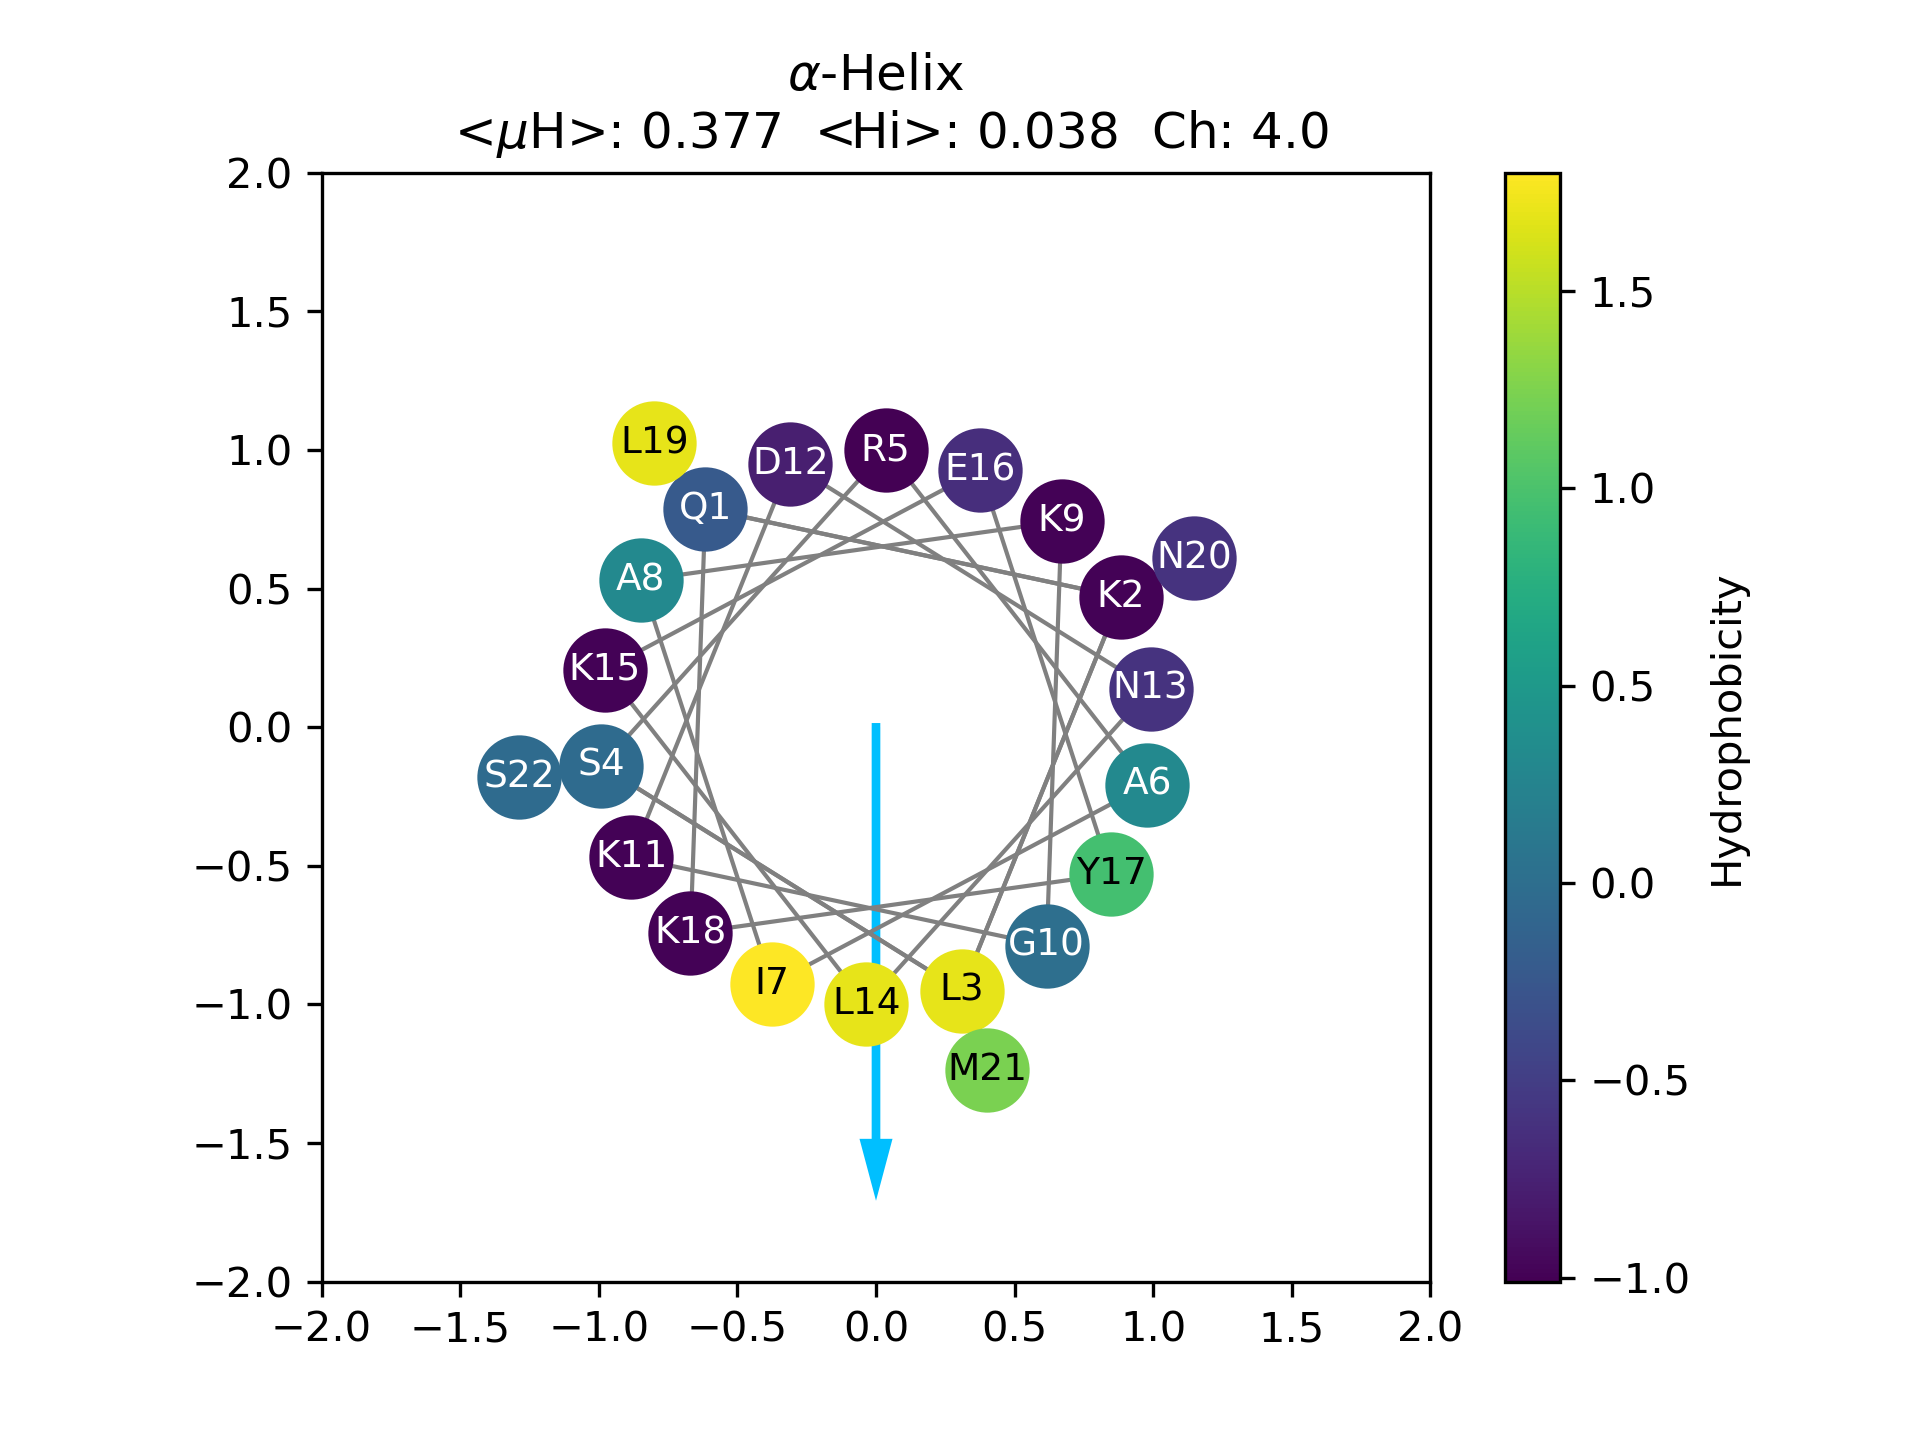
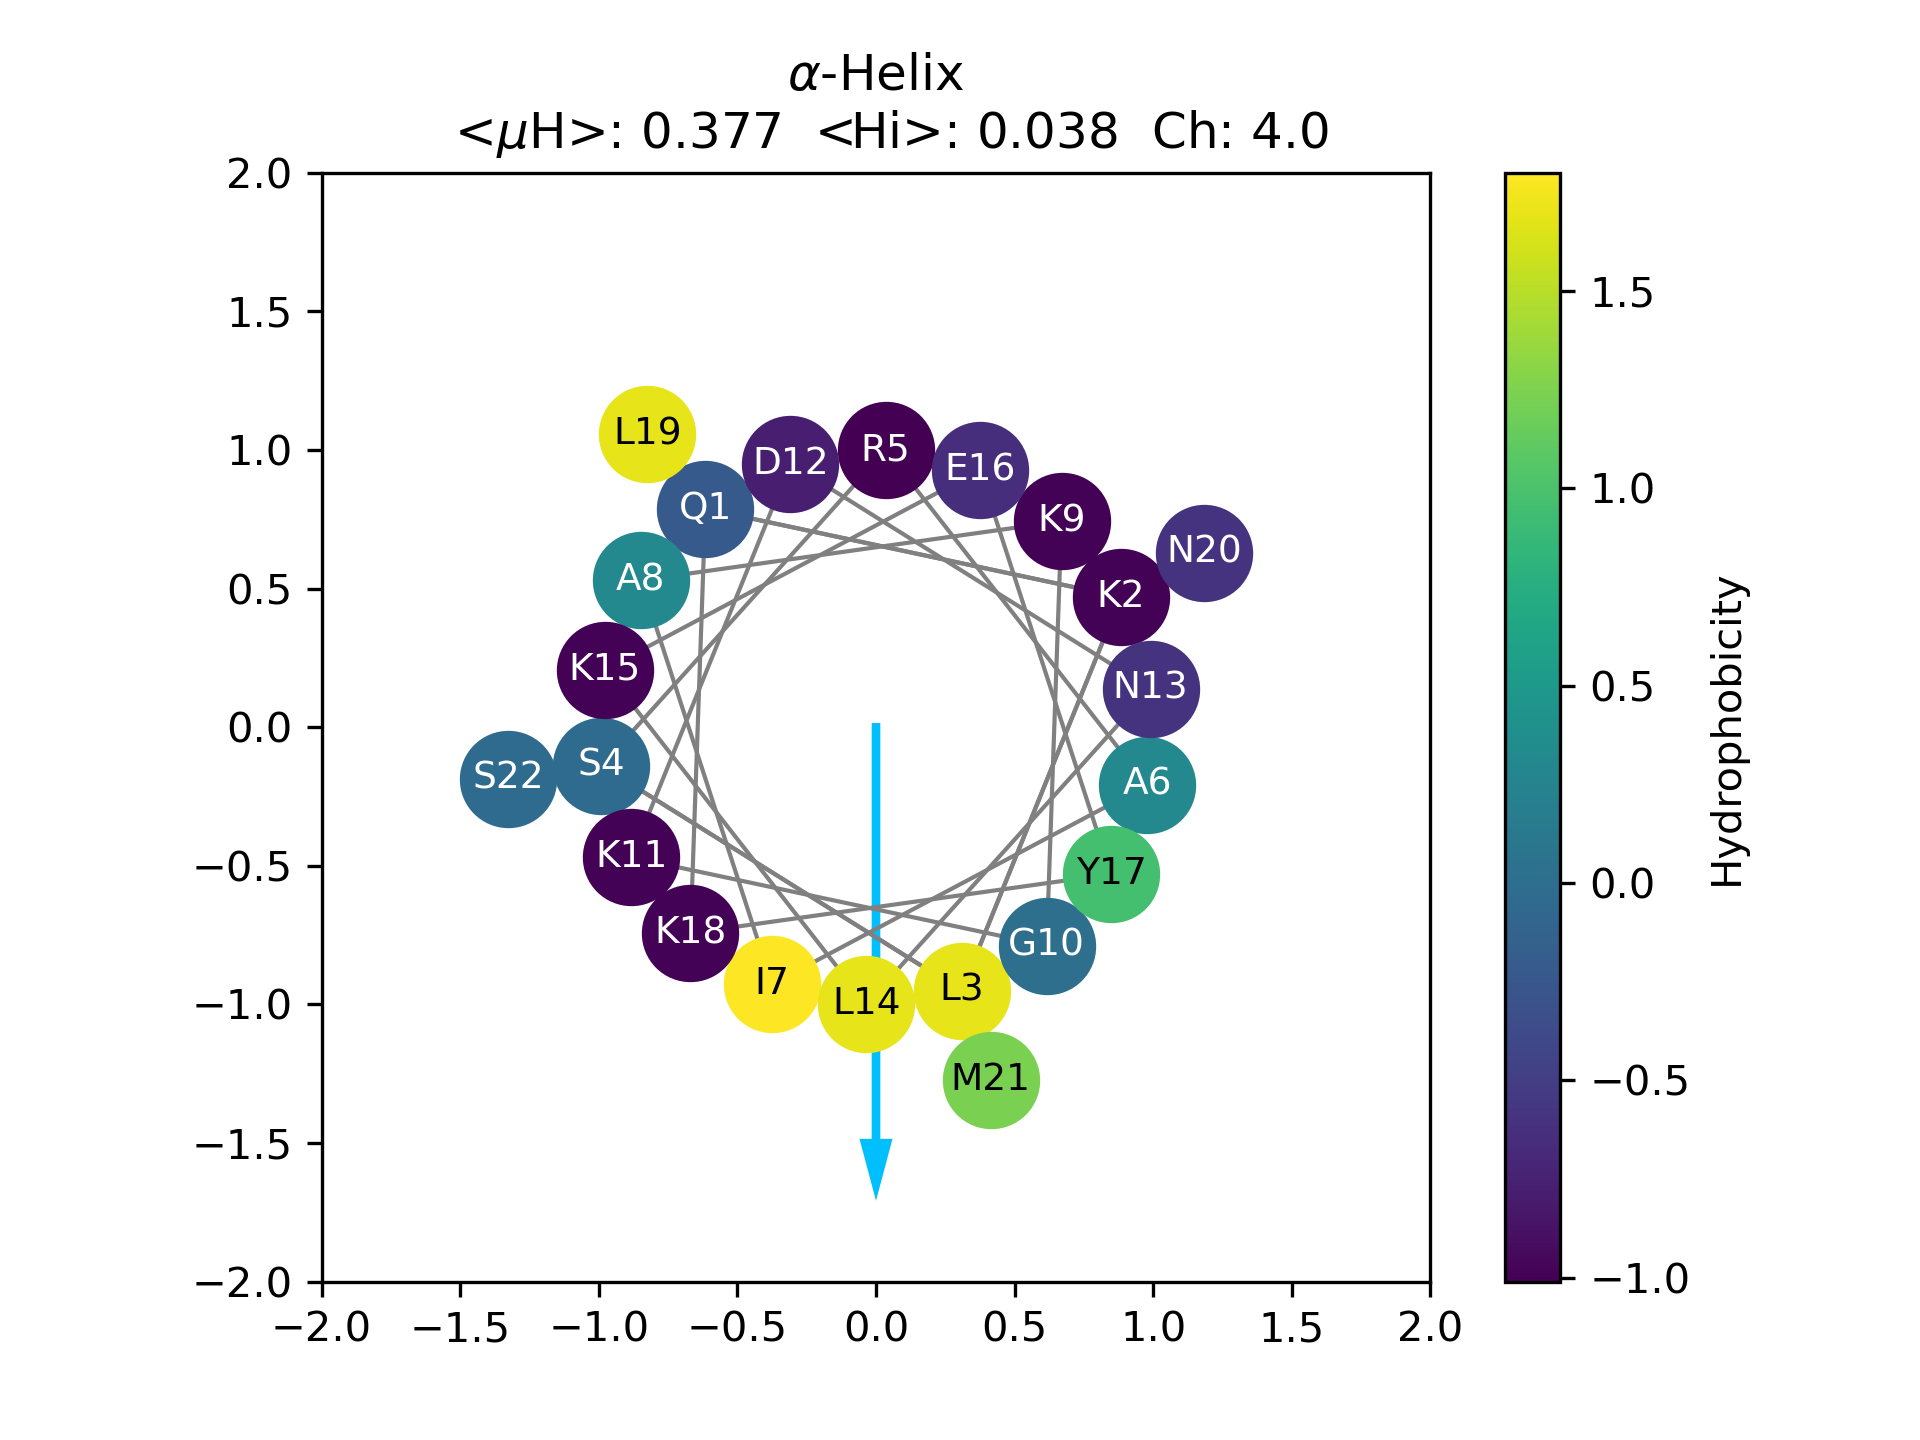
bug in sequence_logo solved. README modified.

diff --git a/sequence_logo.py b/sequence_logo.py
@@ -6,6 +6,7 @@ from an evomd csv report.
 
 from collections import Counter
 import argparse
+import os
 import matplotlib.pyplot as plt
 from matplotlib.textpath import TextPath
 from matplotlib.textpath import TextPath
@@ -87,7 +88,8 @@ def plot_sequence_logo(
 
     # check font
     if font is None:
-        funente_path = "fonts/SilkRemington-SBold.ttf"
+        _SCRIPTDIR = os.path.dirname(os.path.abspath(__file__))
+        funente_path = os.path.join(_SCRIPTDIR, "fonts", "SilkRemington-SBold.ttf")
     else:
         funente_path = font
     
@@ -317,7 +319,7 @@ def main():
         amount = int(len(sequences)*args.ratio)
         sequences = sequences[:amount]
 
-    plot_sequence_logo(sequences=sequences, gradient=args.gradient)
+    plot_sequence_logo(sequences=sequences, gradient=args.gradient, save=args.save, out=args.out)
 
 if __name__ == '__main__':
     main()

diff --git a/README.md b/README.md
@@ -96,6 +96,19 @@ python peptide_viewer.py --sequence QKLSRAIAKGKDNLKEYKLNMS --print-hm --print-hi
 
 ![Opi1 helix view](images/opi1_example.png)
 
+**6. Plot sequence logo:**
+
+You can use `sequence_logo.py` to see the behavior of the primary sequences as a sequence logo. 
+`sequence_logo.py` can read evolver.pkl or the CSV report created by `python evo-md.py --report-sequences`.
+
+```bash
+# plot the 25% of the sequences with highest hydrophobic moment
+python sequence_logo.py --ratio 0.25 --gradient --group max --evopkl evolver.pkl
+```
+
+![Sequence logo](images/sequence_logo.png)
+
+
 See the available options
 
 ```bash
